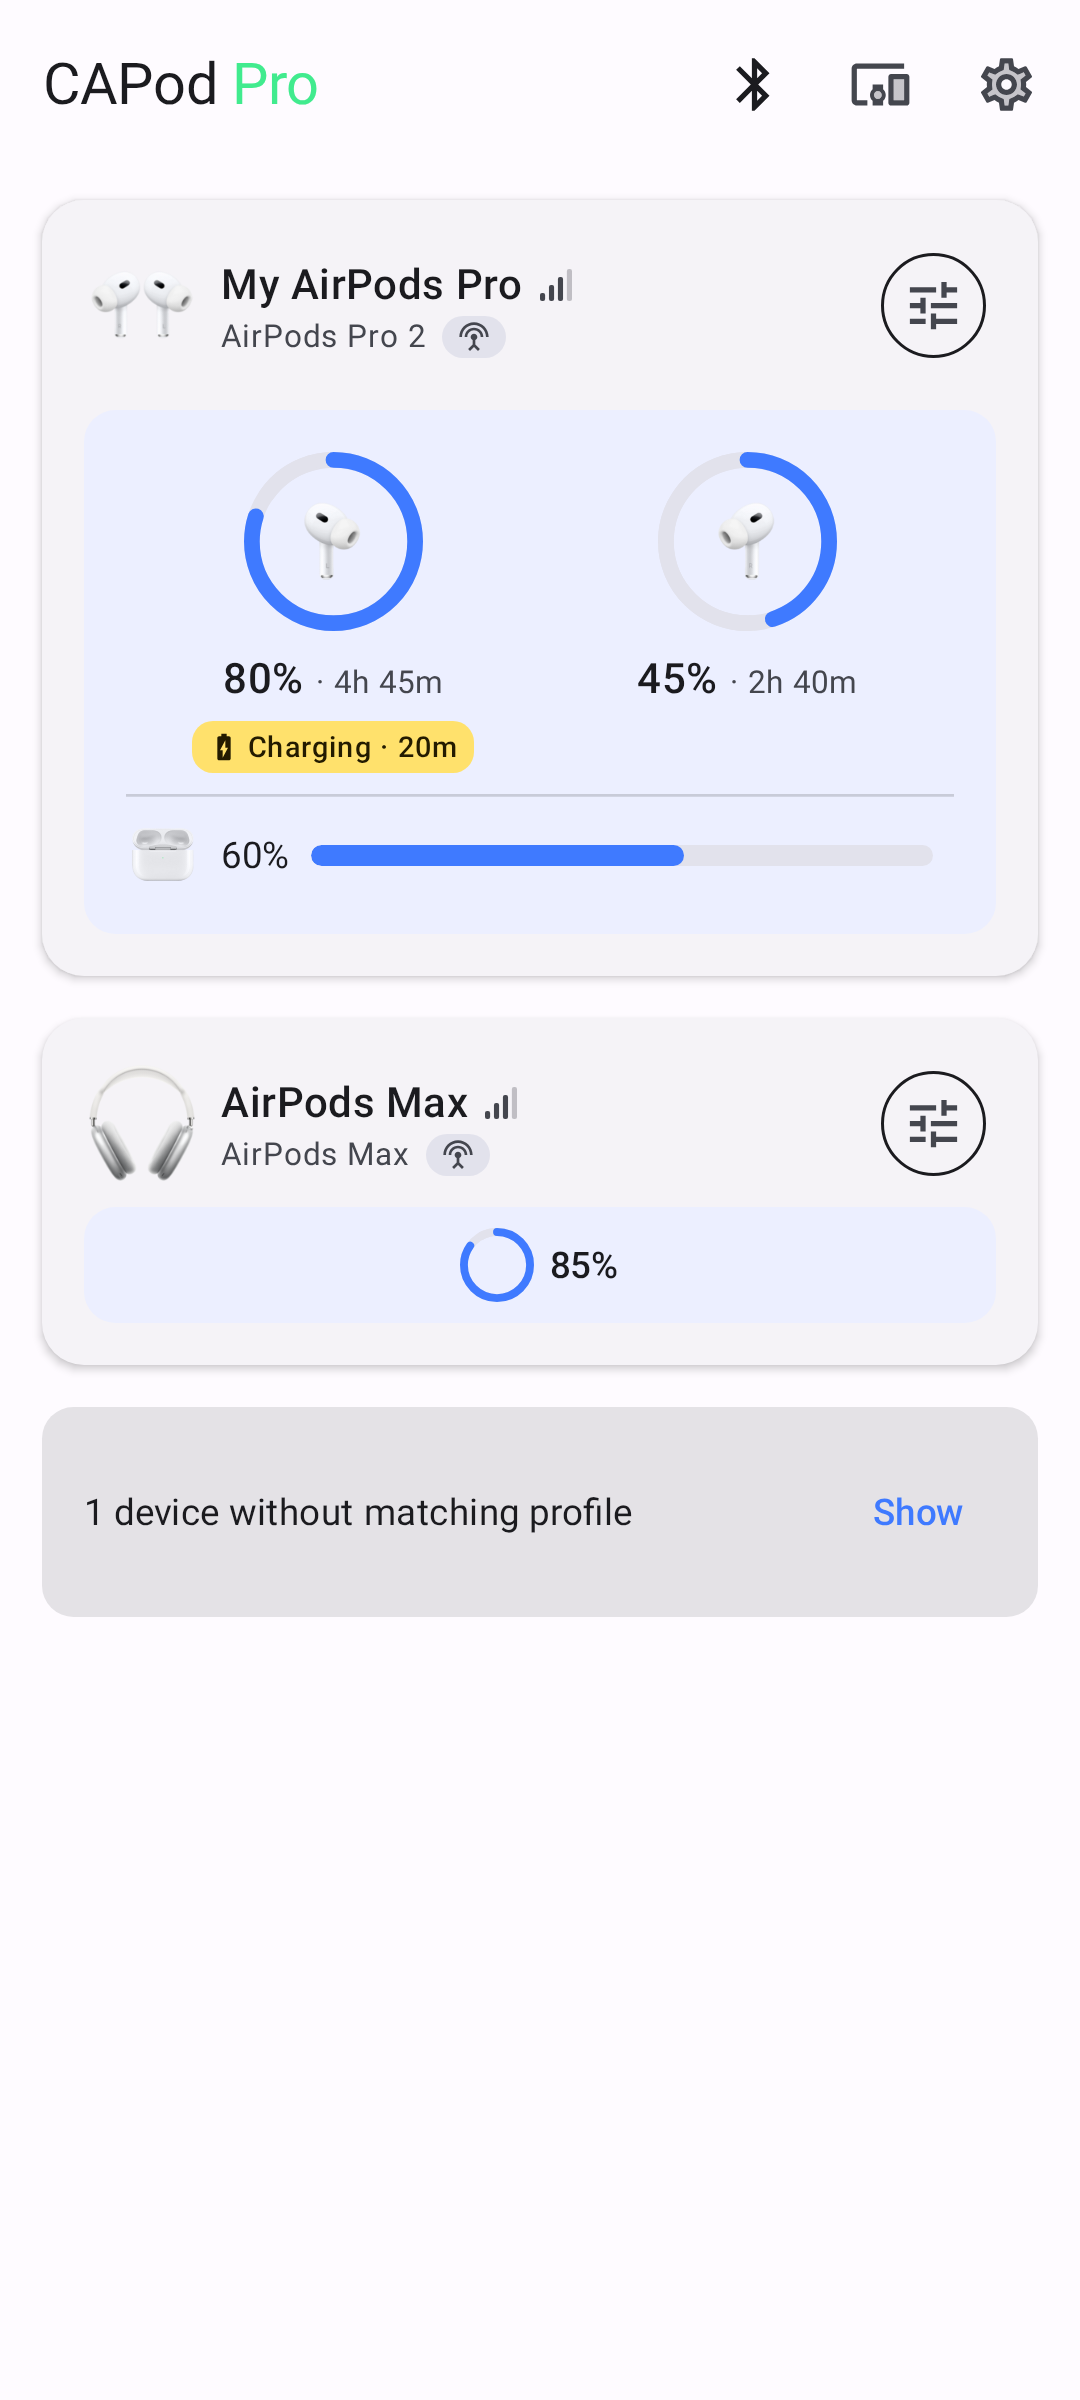
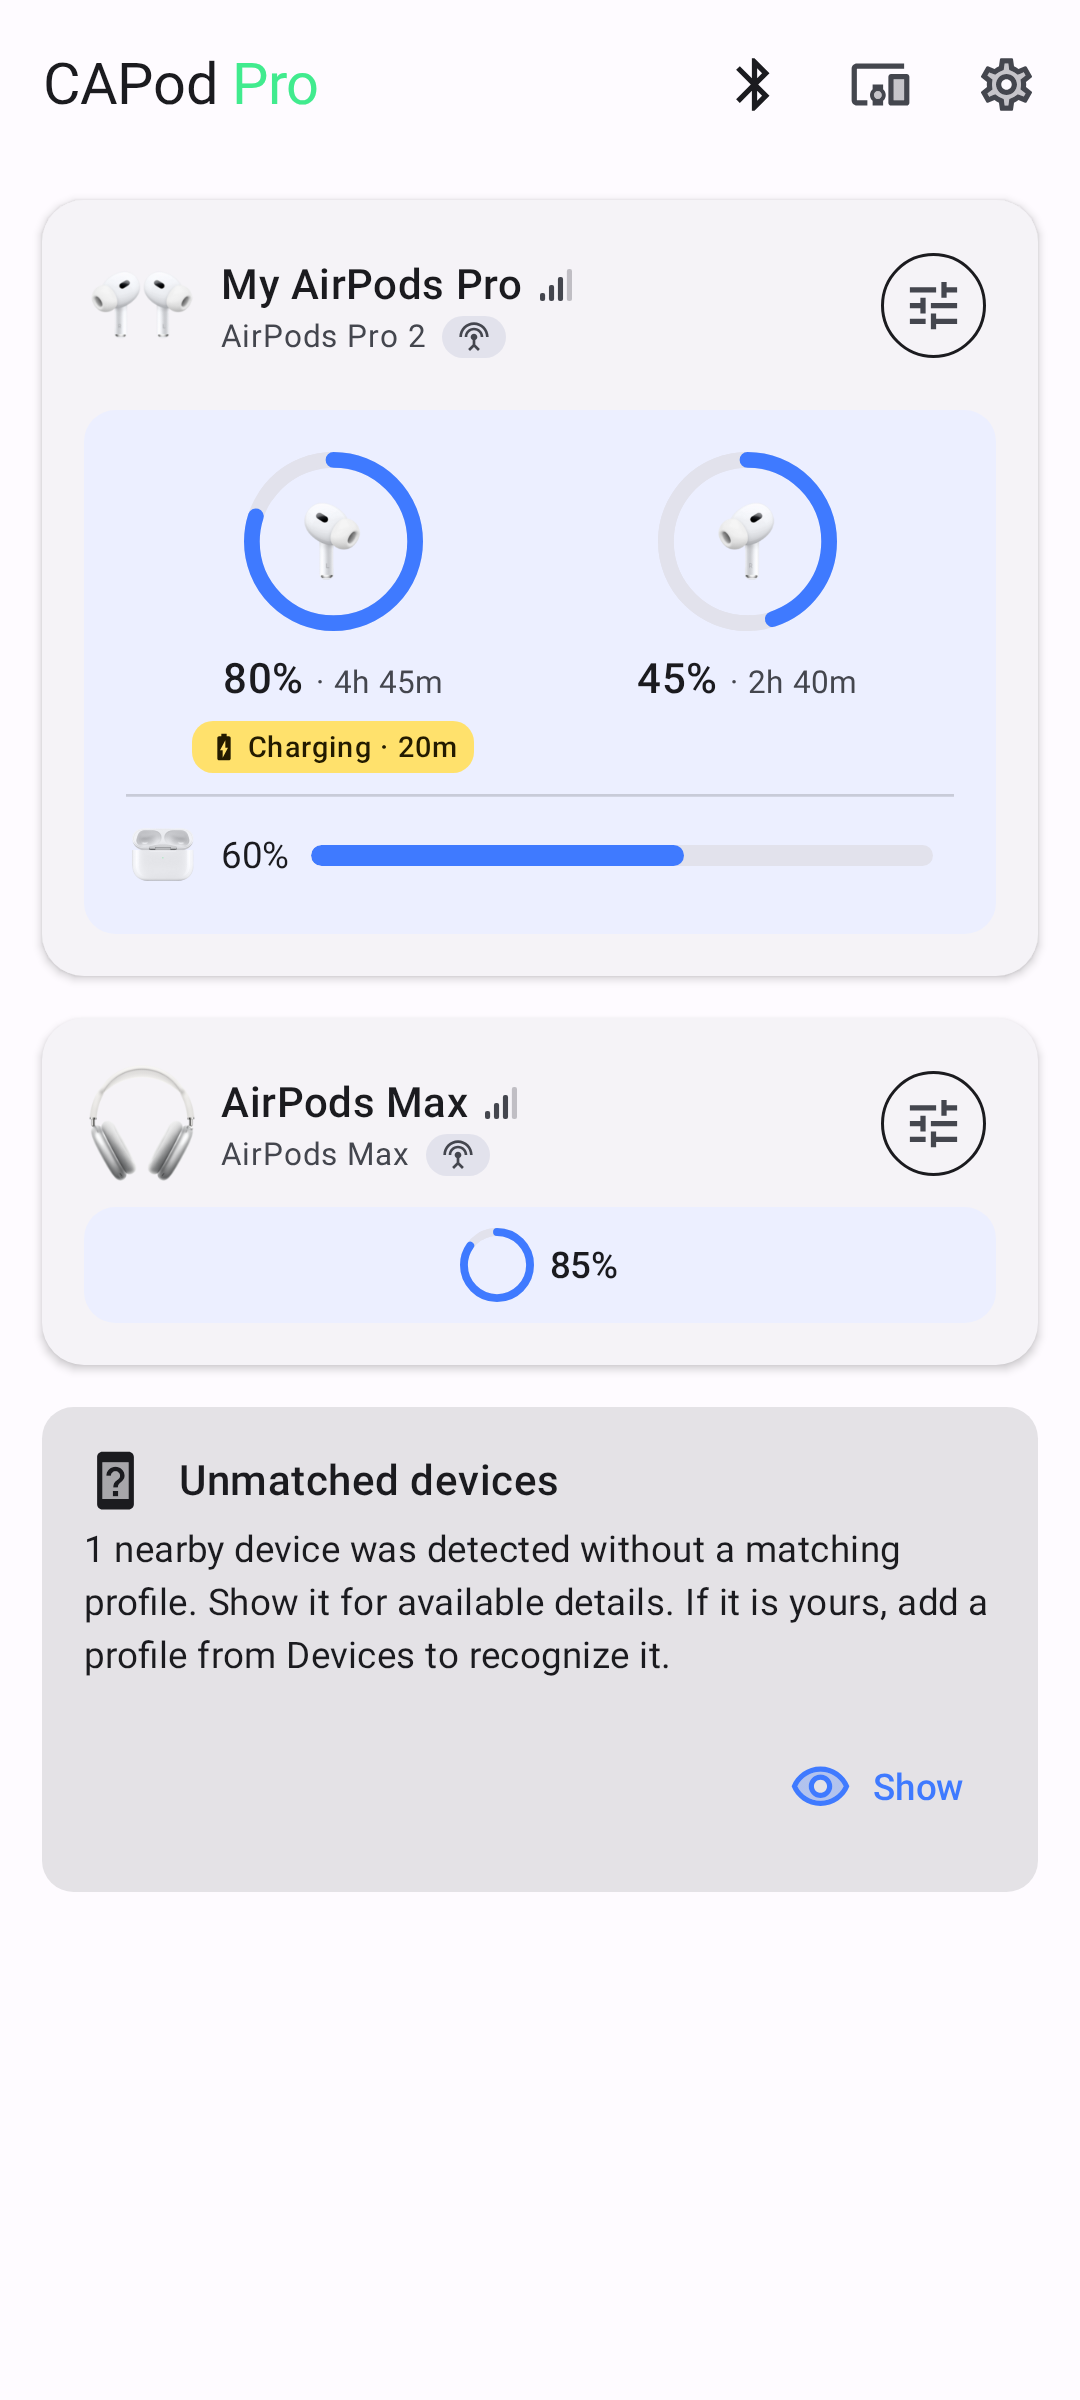
chore(screenshots): Commit only English Play Store screenshots
Only en-US screenshots are tracked from now on. The other 67 locales are
generated on demand and gitignored, which drops 35 PNGs and roughly 5 MB from
the repository and stops every screenshot refresh from churning binaries in
five languages nobody reviews.

Play Store still gets the full 68 locales. supply only uploads what is present
under fastlane/metadata/android/<locale>/images/phoneScreenshots/ and retains
whatever was last pushed for locales absent from an upload, so localization is
maintained by an occasional manual regen plus screenshots_only rather than by
every PR.

PlayStoreLocales.kt had been committed since February holding a truncated
four-locale batch slice, left behind when a run was killed before its EXIT trap
restored the file. The next run then copied that slice over its own backup and
faithfully restored the corruption, which is why the remnant survived six
months. It is replaced with a documented en-US placeholder, the generator no
longer emits an annotation nothing references, and the script now refuses to
start when a stale .bak is present instead of clobbering the only good copy.

The refresh runbook is corrected as well: it ended with a checkout that restores
tracked files from the index, which would have reverted the freshly rendered
English screenshots while the store received them, and its upload step is now
gated so a failed upload leaves them staged for a retry rather than committed as
though deployed.

Changed region(s): [[0.0306, 0.5938, 0.9778, 0.8125]]

diff --git a/app/src/screenshotTest/kotlin/eu/darken/capod/screenshots/PlayStoreLocales.kt b/app/src/screenshotTest/kotlin/eu/darken/capod/screenshots/PlayStoreLocales.kt
@@ -4,26 +4,17 @@ import android.content.res.Configuration
 import androidx.compose.ui.tooling.preview.Preview
 
 /**
- * Multi-preview annotation generating one preview per Play Store-supported locale (light mode).
- * Each [name] is the fastlane metadata directory name for direct use in the copy script.
+ * Placeholder locale set. `fastlane/generate_screenshots.sh` rewrites this file per batch and
+ * restores it afterwards, so the committed content only decides what a bare
+ * `./gradlew updateGplayDebugScreenshotTest` renders.
+ *
+ * [name] is the fastlane metadata directory the copy script sorts the output into.
  */
 @Preview(locale = "en", name = "en-US", device = DS)
-@Preview(locale = "af", name = "af", device = DS)
-@Preview(locale = "am", name = "am", device = DS)
-@Preview(locale = "ar", name = "ar", device = DS)
 annotation class PlayStoreLocales
 
 /**
  * Same locales but with night mode enabled for dark theme screenshots.
  */
 @Preview(locale = "en", name = "en-US", device = DS, uiMode = Configuration.UI_MODE_NIGHT_YES)
-@Preview(locale = "af", name = "af", device = DS, uiMode = Configuration.UI_MODE_NIGHT_YES)
-@Preview(locale = "am", name = "am", device = DS, uiMode = Configuration.UI_MODE_NIGHT_YES)
-@Preview(locale = "ar", name = "ar", device = DS, uiMode = Configuration.UI_MODE_NIGHT_YES)
 annotation class PlayStoreLocalesDark
-
-/**
- * Smoke test subset for fast iteration (6 locales covering LTR, RTL, CJK).
- */
-@Preview(locale = "en", name = "en-US", device = DS)
-annotation class PlayStoreLocalesSmoke

diff --git a/.claude/rules/screenshots.md b/.claude/rules/screenshots.md
@@ -32,13 +32,15 @@ ScreenshotContent.kt (mock data + composables)
 |------|---------|
 | `app/src/debug/java/.../screenshots/ScreenshotContent.kt` | Mock data composables (7 exist; `HomescreenWidgetContent` has an IDE preview only and is **not** in the Play Store pipeline) |
 | `app/src/screenshotTest/kotlin/.../screenshots/PlayStoreScreenshots.kt` | `@PreviewTest` functions (currently: `DashboardLight`, `DashboardDark`, `CasePopUp`, `DeviceProfiles`, `AddProfile`, `DeviceSettingsReactions`, `WidgetConfiguration`) |
-| `app/src/screenshotTest/kotlin/.../screenshots/PlayStoreLocales.kt` | Multi-preview annotations (auto-generated by batch script) |
+| `app/src/screenshotTest/kotlin/.../screenshots/PlayStoreLocales.kt` | Multi-preview annotations. The committed content is an en-US placeholder, not meaningful data — `generate_screenshots.sh` rewrites it per batch and restores it from a `.bak` on exit. A run killed hard leaves that `.bak` behind, so the script now refuses to start until it is restored by hand |
 | `fastlane/generate_screenshots.sh` | Batched generation; locale list (`ALL_LOCALES`) and `BATCH_SIZE` are defined inside the script |
 | `fastlane/copy_screenshots.sh` | Copies rendered PNGs into fastlane structure |
 
 ## Commit policy
 
-Only the 6 smoke locales (en-US, de-DE, ja-JP, ar, zh-CN, pt-BR) have `phoneScreenshots/*.png` checked into the repo. Non-smoke locales are excluded by `.gitignore`. This mirrors permission-pilot and keeps repo size small (~7 MB vs ~67 MB for the full 68 locales).
+Only `en-US` has `phoneScreenshots/*.png` checked into the repo — 7 PNGs, ~1 MB tracked. Every other locale is excluded by `.gitignore`.
+
+`--smoke` still *renders* 6 locales (en-US, de-DE, ja-JP, ar, zh-CN, pt-BR), but only en-US is committed. The other five cover LTR, RTL and CJK layout so a render that breaks on non-Latin script fails during generation, and the resulting PNGs sit in the working tree for manual inspection. Nothing compares them against a baseline, so this is render coverage plus eyeballing, not regression checking.
 
 Play Store's `supply` only uploads what's present in `fastlane/metadata/android/<locale>/images/phoneScreenshots/`. For locales not in the upload, Play Store retains whatever was last pushed. So full localization on Play Store is maintained by an **occasional manual** full regen + `:screenshots_only` upload — not by every PR.
 
@@ -90,11 +92,20 @@ Periodic, manual operation — not per-PR:
 ```bash
 ./fastlane/generate_screenshots.sh           # full, ~30 min, 476 PNGs (68 locales x 7)
 ./fastlane/copy_screenshots.sh --clean
-bundle exec fastlane screenshots_only        # uploads all 68 locales to Play Store
-git checkout -- fastlane/metadata/android/   # discard non-smoke changes (gitignored anyway)
+git add fastlane/metadata/android/en-US/images/phoneScreenshots/
+if bundle exec fastlane screenshots_only; then
+  git checkout -- fastlane/metadata/android/ &&
+    git commit --only -m "chore(screenshots): Refresh Play Store screenshots" -- \
+      fastlane/metadata/android/en-US/images/phoneScreenshots/
+else
+  git checkout -- fastlane/metadata/android/
+  echo "Upload failed; the refreshed en-US screenshots remain staged for retry."
+fi
 ```
 
-The `.gitignore` rule keeps non-smoke output unstaged automatically, so only the smoke locales' refreshed PNGs would show up as modifications and can be committed.
+The `git add` has to happen before the upload. The final `git checkout` restores every tracked file under that path **from the index**, so staging the refreshed English set is precisely what makes it survive the checkout — skip the `git add` and the checkout silently reverts the refresh while the store still receives the new images.
+
+Restoring is the checkout's job otherwise: `screenshots_only` runs `remove_unsupported_languages.sh`, which deletes 9 tracked locale directories (es-AR, sc-IT, sq-AL, uz, kmr-TR, ur-IN, zu, si-LK, nb) from the working tree before uploading — 35 tracked files, a subset of the 309 tracked non-screenshot metadata files under that path, all of them put back by the checkout. It does **not** touch the regenerated non-English PNGs: those are untracked and ignored, so they stay on disk and never show up in `git status`. Because the checkout discards any uncommitted metadata text edits too, run this refresh only with an otherwise-clean metadata tree. The final commit is path-limited on purpose, so an unrelated staged change can't ride along, and it is gated on `screenshots_only` succeeding rather than merely sequenced after it: if the upload fails, the refreshed English files stay staged for a retry instead of being committed as though they were deployed. The deleted locale directories are restored on either path.
 
 ## Technical Notes
 
